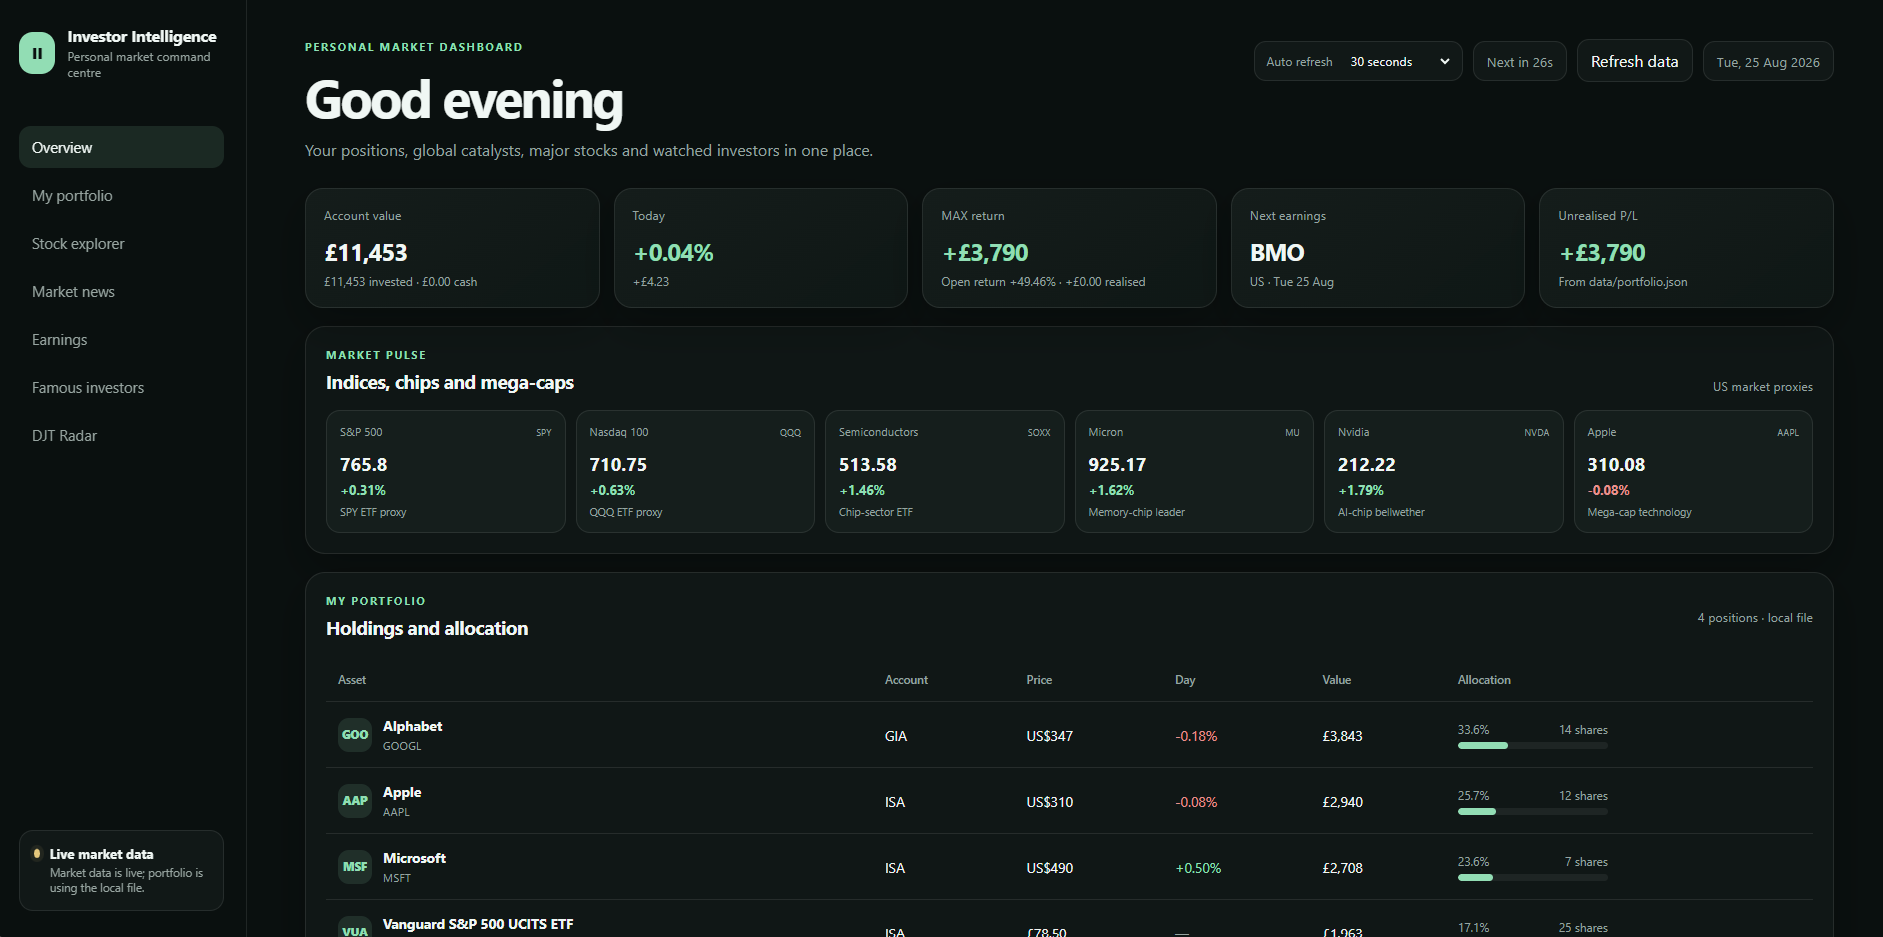
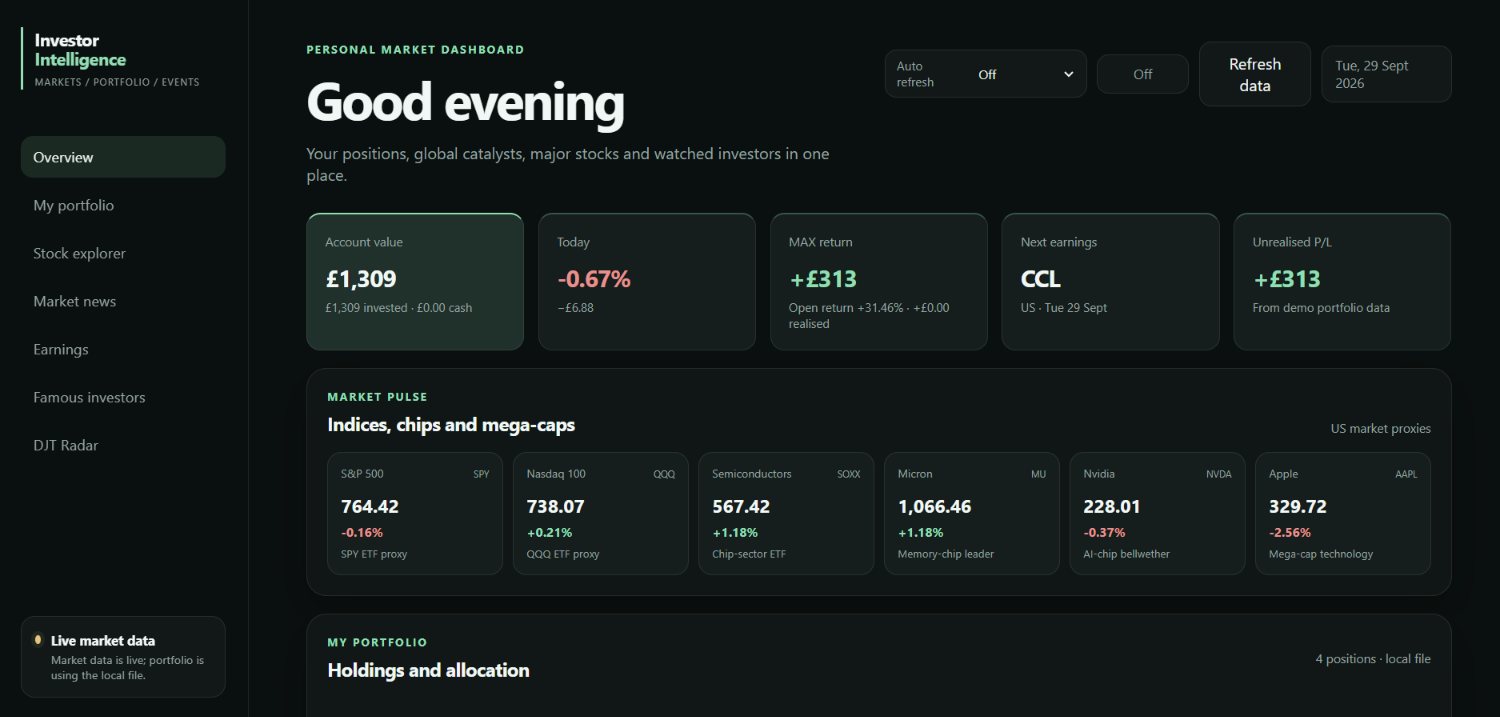
Refresh documentation screenshots for updated app interfaces

diff --git a/README.md b/README.md
@@ -36,6 +36,15 @@ Built with vanilla JavaScript, serverless Netlify Functions and live/public fina
 </table>
 
 <details>
+<summary><strong>Demo portfolio holdings</strong></summary>
+
+![Demo portfolio holdings and allocation](screenshots/portfolio-holdings.png)
+
+The displayed holdings are synthetic demo positions; market quotes are supplied by the configured data provider.
+
+</details>
+
+<details>
 <summary><strong>Event monitor screenshot</strong></summary>
 <br>
 
